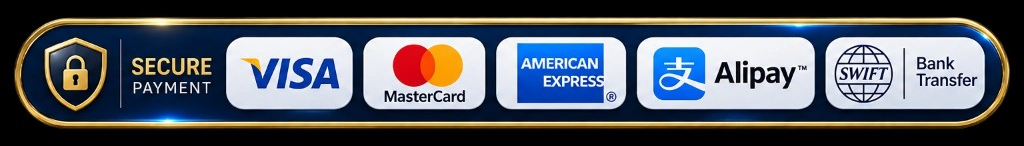
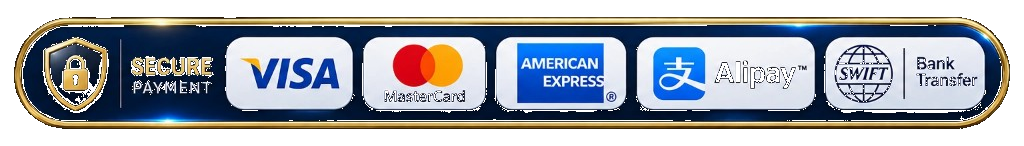
Shrink Secure Payment badge 10% and remove black plate.

diff --git a/components/layout/Footer.tsx b/components/layout/Footer.tsx
@@ -34,7 +34,7 @@ function SecurePaymentBadge() {
         alt="Secure Payment — Visa, Mastercard, American Express, Alipay, SWIFT Bank Transfer"
         width={1024}
         height={146}
-        className="mx-auto h-auto w-full max-w-[760px] object-contain"
+        className="mx-auto h-auto w-full max-w-[684px] object-contain"
         loading="lazy"
         decoding="async"
       />
